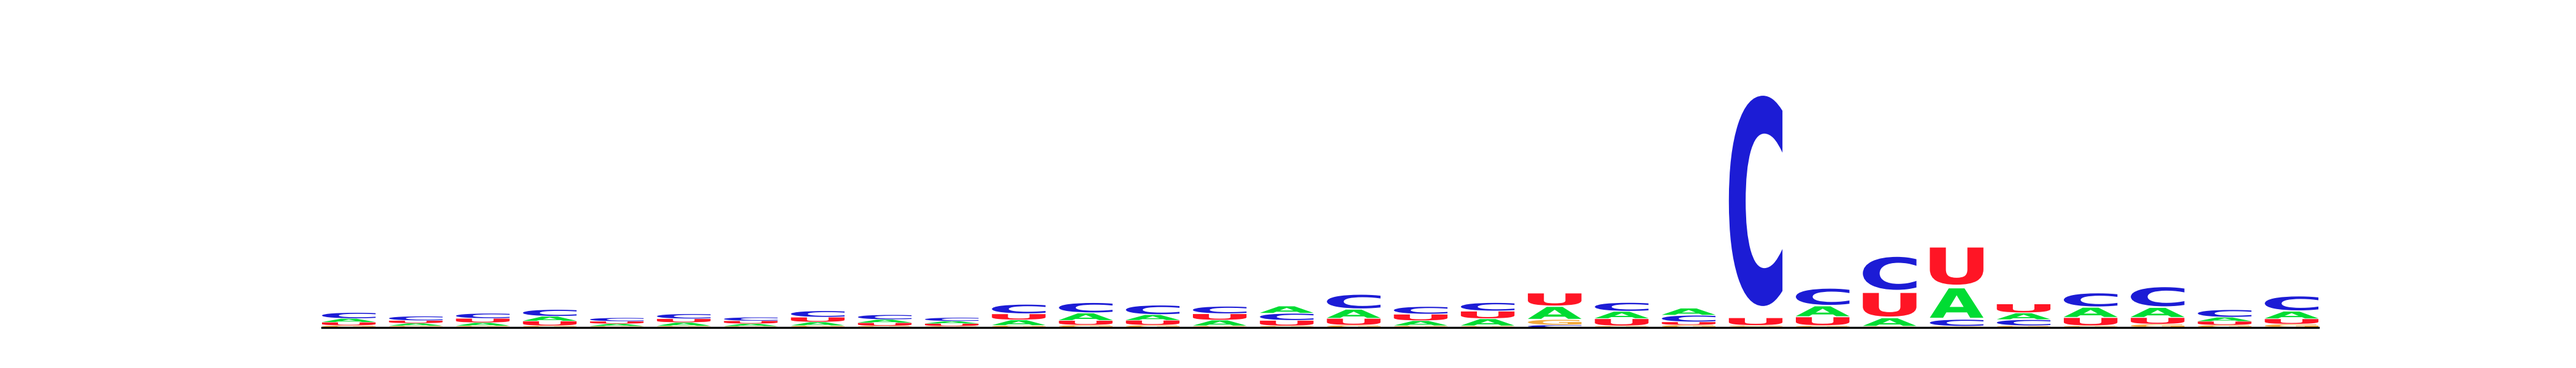
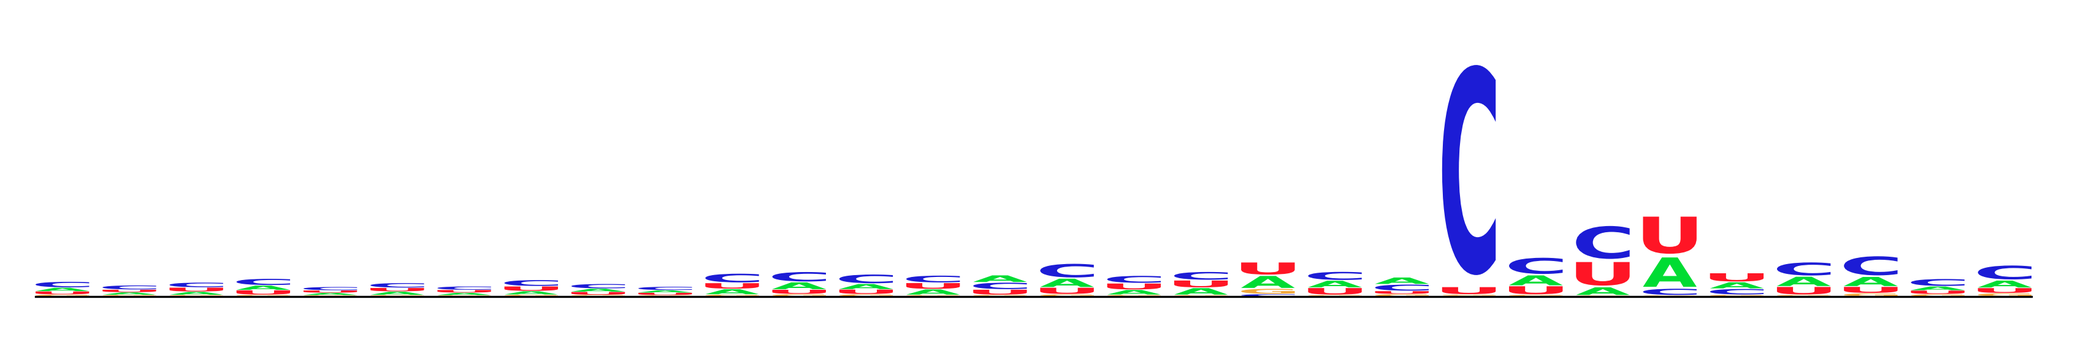
resize long feature

Changed region(s): [[0.0, 0.1855, 0.9985, 0.8964]]

diff --git a/src/static/utils.js b/src/static/utils.js
@@ -142,7 +142,7 @@ function featureSelection(featureName = null, className = null, use_new_grouping
 
     svgContainer.exit().remove();
   };
-  if(use_new_grouping) {
+
   // Update SVGs for inclusion images
   updateSVGs("div.svg-grid-inclusion", ".feature-svg", newImagesData.inclusion, [inclusion_color, inclusion_highlight_color]);
 
@@ -151,22 +151,5 @@ function featureSelection(featureName = null, className = null, use_new_grouping
 
   // Update SVGs for long skipping images
   updateSVGs("div.svg-grid-long-skipping", ".feature-long-svg", newImagesData.longSkipping, [skipping_color, skipping_highlight_color]);
-  } else {
-  // Update SVGs for inclusion images
-  updateSVGs("div.svg-grid-inclusion", ".feature-svg", imagesData.inclusion, [inclusion_color, inclusion_highlight_color]);
 
-  // Update SVGs for skipping images
-  updateSVGs("div.svg-grid-skipping", ".feature-svg", imagesData.skipping, [skipping_color, skipping_highlight_color]);
-
-  // Update SVGs for long skipping images
-  updateSVGs("div.svg-grid-long-skipping", ".feature-long-svg", imagesData.longSkipping, [skipping_color, skipping_highlight_color]);
-  }
-
-  // featureLongSVGs.forEach(svg => {
-  //   svg.style.height = `${3*heightRatio}rem`;
-  // });
-  // featureSVGs.forEach(svg => {
-  //   svg.style.width = `${6.25*widthRatio}rem`;
-  //   svg.style.height = `${3*heightRatio}rem`;
-  // });
 }

diff --git a/src/static/styles.css b/src/static/styles.css
@@ -134,14 +134,14 @@ html {
     display: grid;
     flex-direction: column;
     gap: 0.2rem;
-    width: 50%;
+    width:50%;
     margin-left: auto; /* This will push the grid to the right */
   }
   
   .feature-long-svg {
     border: 1px solid black;
     width: 11.225vw;
-    height: 3vw;
+    height: 2.5vw;
     box-sizing: border-box;
     border-radius: 0.3125rem;
     object-fit: fill;
